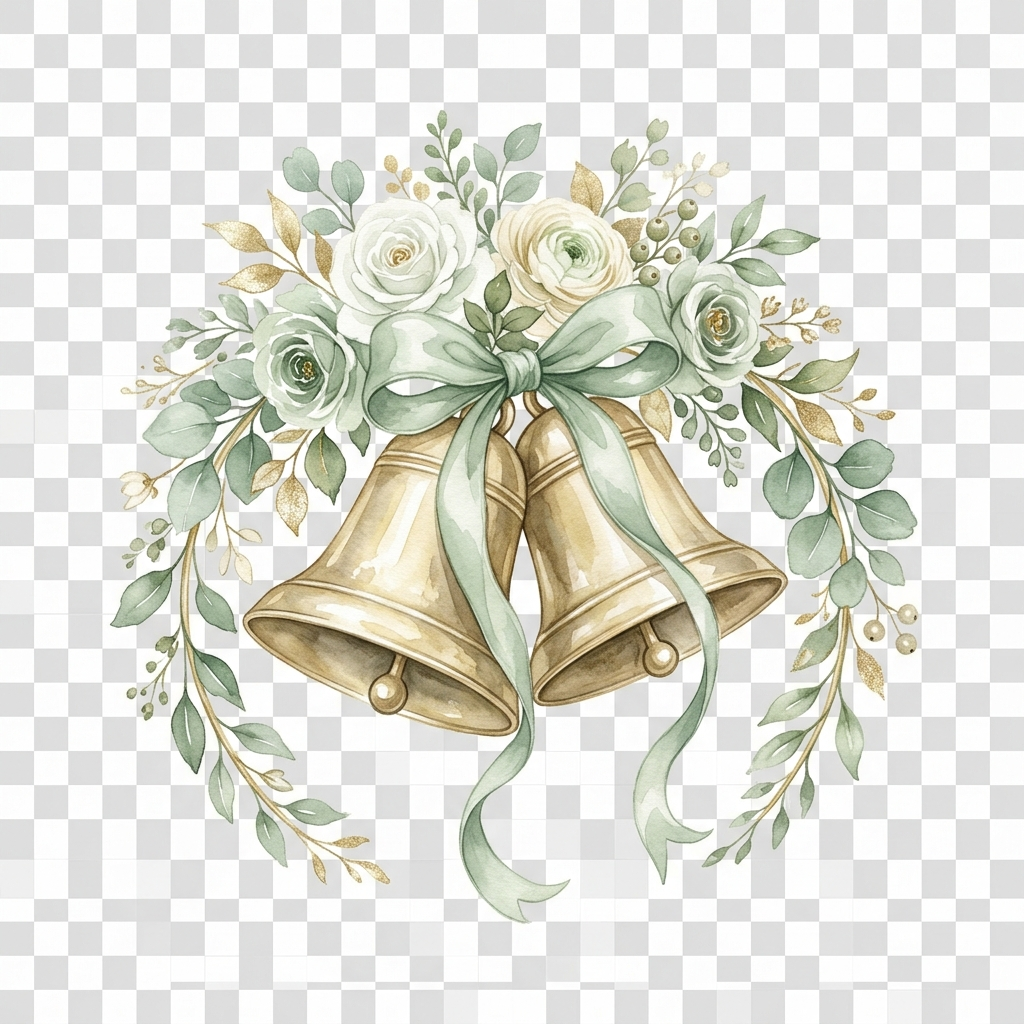
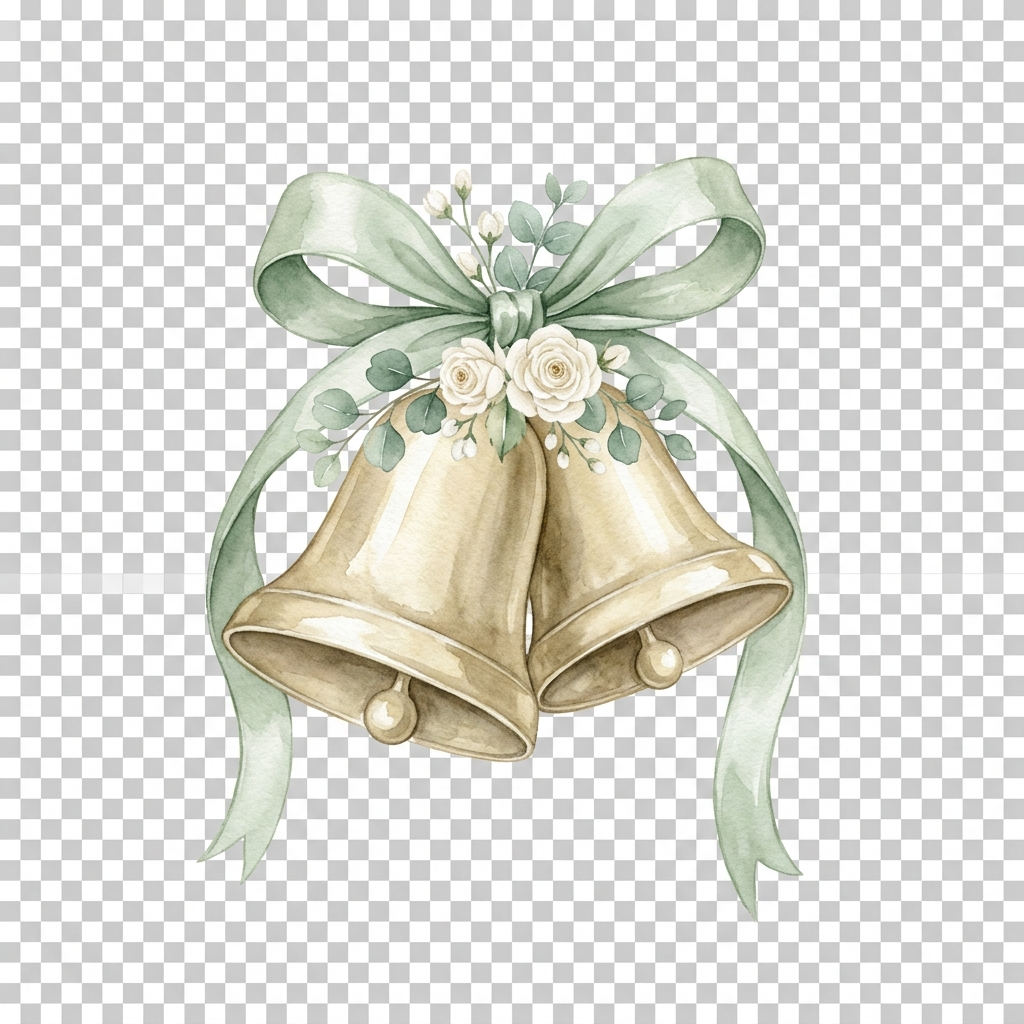
feat: new transparent sage bells, 5-sec You're Invited countdown before main page opens

diff --git a/js/main.js b/js/main.js
@@ -109,18 +109,31 @@ if (welcomeOverlay && openInvitationBtn) {
   document.body.classList.add('welcome-visible');
   openInvitationBtn.addEventListener('click', () => {
     welcomeOverlay.classList.add('opening');
-    if (welcomeHeading) welcomeHeading.textContent = "You're Invited";
-    if (welcomeSubtitle) welcomeSubtitle.textContent = 'Step inside and celebrate with us';
-    openInvitationBtn.textContent = 'Welcome';
+    if (welcomeHeading) welcomeHeading.textContent = "You're Invited! 🎉";
+    if (welcomeSubtitle) welcomeSubtitle.textContent = 'Step inside and celebrate with us...';
+    openInvitationBtn.style.display = 'none';
     if (bgMusic) {
       bgMusic.dataset.userUnlocked = 'true';
       window.startMusic?.();
     }
     createConfetti();
-    setTimeout(() => {
-      welcomeOverlay.classList.add('hidden');
-      document.body.classList.remove('welcome-visible');
-    }, 900);
+
+    // Show "You're Invited" for 5 seconds then open main page
+    let secs = 5;
+    const countEl = document.createElement('p');
+    countEl.style.cssText = 'margin-top:1rem; font-size:0.85rem; color:var(--muted); letter-spacing:0.05em;';
+    countEl.textContent = `Opening in ${secs}...`;
+    welcomeOverlay.querySelector('.welcome-card').appendChild(countEl);
+
+    const interval = setInterval(() => {
+      secs -= 1;
+      countEl.textContent = `Opening in ${secs}...`;
+      if (secs <= 0) {
+        clearInterval(interval);
+        welcomeOverlay.classList.add('hidden');
+        document.body.classList.remove('welcome-visible');
+      }
+    }, 1000);
   });
 }
 

diff --git a/css/style_v3.css b/css/style_v3.css
@@ -1,4 +1,4 @@
-:root {
+:root {
   --primary: #3c4a3e;
   --secondary: #d4af37;
   --cream: #faf9f6;
@@ -275,7 +275,7 @@ a { color: inherit; text-decoration: none; }
     font-weight: 600 !important;
   }
 
-  /* Countdown ÃƒÂ¢Ã¢â€šÂ¬Ã¢â‚¬Â compact */
+  /* Countdown ÃƒÆ’Ã‚Â¢ÃƒÂ¢Ã¢â‚¬Å¡Ã‚Â¬ÃƒÂ¢Ã¢â€šÂ¬Ã‚Â compact */
   .countdown {
     margin-top: 0 !important;
     gap: 0.4rem !important;
@@ -397,7 +397,7 @@ img { width: 100%; display: block; object-fit: cover; }
   letter-spacing: 0.02em;
 }
 .story-details p::before {
-  content: 'ÃƒÂ¢Ã¢â€šÂ¬Ã‚Â¢';
+  content: 'ÃƒÆ’Ã‚Â¢ÃƒÂ¢Ã¢â‚¬Å¡Ã‚Â¬Ãƒâ€šÃ‚Â¢';
   position: absolute;
   left: 0;
   top: 0.2rem;
@@ -653,7 +653,7 @@ h2 { font-size: clamp(2rem, 3vw, 2.8rem); }
   opacity: 1;
   pointer-events: none;
   z-index: 2;
-  mix-blend-mode: multiply;
+  
 }
 .hero-content, .hero-float { position: relative; z-index: 1; }
 .eyebrow {
@@ -790,7 +790,7 @@ blockquote span { display: block; margin-top: 0.8rem; font-size: 0.95rem; color:
   animation: heartPulse 2s ease-in-out infinite;
 }
 .schedule-list .schedule-rail::before {
-  content: 'ÃƒÂ¢Ã‚ÂÃ‚Â¤ÃƒÂ¯Ã‚Â¸Ã‚Â';
+  content: 'ÃƒÆ’Ã‚Â¢Ãƒâ€šÃ‚ÂÃƒâ€šÃ‚Â¤ÃƒÆ’Ã‚Â¯Ãƒâ€šÃ‚Â¸Ãƒâ€šÃ‚Â';
   display: inline-block;
 }
 
@@ -1166,6 +1166,7 @@ blockquote span { display: block; margin-top: 0.8rem; font-size: 0.95rem; color:
 .contact-section {
   padding-top: 2rem;
 }
+
 
 
 

diff --git a/index.html b/index.html
@@ -61,7 +61,7 @@
             "I have found the one whom my soul loves."
             <span class="hero-psalm-ref">&mdash; Song of Solomon 3:4</span>
           </h1>
-          <img src="images/weddingbells.jpeg" alt="Wedding Bells" class="hero-bells" id="heroBells" />
+          <img src="images/wedding_bells_new.png" alt="Wedding Bells" class="hero-bells" id="heroBells" />
           </div>
         <div class="hero-invitation-section" style="display: none;">
           <p class="hero-highlighted-invitation">
@@ -327,6 +327,7 @@
     <script src="js/audio-player.js?v=20260817-2"></script>
 </body>
 </html>
+
 
 
 
